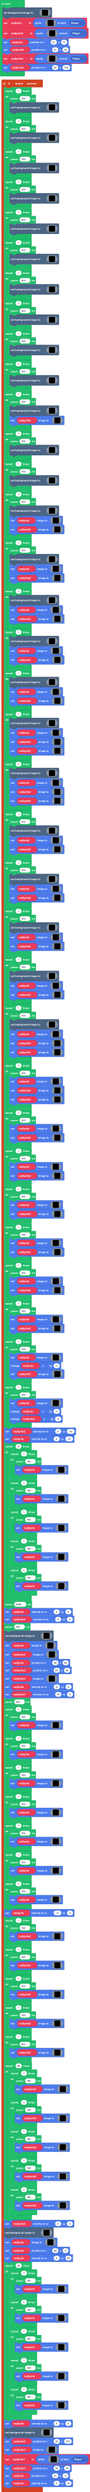
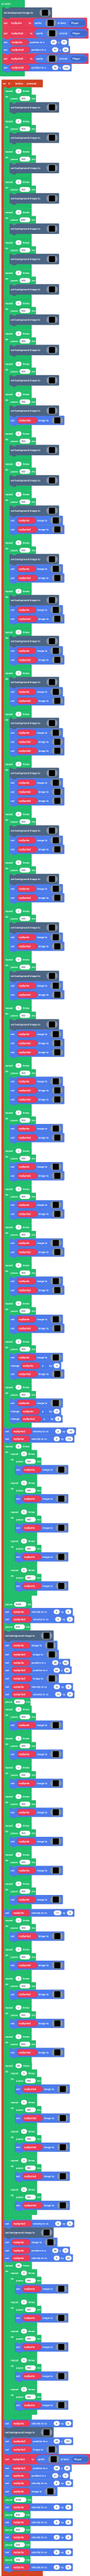
Update main.blocks, main.ts

diff --git a/main.ts b/main.ts
@@ -10467,6 +10467,138 @@ controller.A.onEvent(ControllerButtonEvent.Pressed, function () {
     mySprite3.setPosition(38, 34)
     mySprite.setPosition(51, 0)
     mySprite.setVelocity(0, 10)
+    mySprite.setImage(img`
+        ....................
+        ....................
+        ....................
+        ....................
+        ....................
+        ....................
+        ....................
+        ....................
+        ....................
+        ....................
+        ....................
+        ....................
+        ....................
+        ....................
+        ....................
+        ....................
+        ....................
+        ....................
+        ....................
+        ....................
+        ....................
+        ....................
+        ....................
+        ....................
+        ....................
+        ....................
+        ....................
+        ....................
+        ....................
+        ....................
+        ....................
+        ....................
+        ......bbbbbbbbb.....
+        ......bbbbbbbbb.....
+        ..ffffbbbfffbbbffff.
+        ......bbbbbbbbb.....
+        ......bbbbfbbbb.....
+        ......bbbbfbbbb.....
+        ......1111f1111.....
+        ......1111f1111.....
+        ......1111ff111.....
+        ......1111ff111.....
+        ......1111f1111.....
+        ......1111f1111.....
+        ......1111f1111.....
+        ......1111f1111.....
+        ......1111f1111.....
+        ......1111f1111.....
+        ......1111f1111.....
+        ......1111ff111.....
+        ......bbbbfbbbb.....
+        ......bbbbfbbbb.....
+        ......bbbbfbbbb.....
+        ......bbbbfbbbb.....
+        ......bbbbfbbbb.....
+        ......bbbbfbbbb.....
+        ......bbbbfbbbb.....
+        ......1111f1111.....
+        ......1111f1111.....
+        ......1111f1111.....
+        ......1111f1111.....
+        ......1111ff111.....
+        ......1111ff111.....
+        ......1111f1111.....
+        ......1111f1111.....
+        ......1111f1111.....
+        .....b1111f1111b....
+        ....bb1111f1111bb...
+        ....bb1111f1111bb...
+        ....bb1111f1111bb...
+        ....bb1111f1111bb...
+        ....bb1111f1111bb...
+        ....bb1111ff111bb...
+        ....bb1111f1111bb...
+        ....bb1111ff111bb...
+        ....bb1111f1111bb...
+        ....bb1111f1111bb...
+        ....bb1111f1111bb...
+        ....bb1111f1111bb...
+        ....bb1111f1111bb...
+        ....bb1111f1111bb...
+        ....bb1111f1111bb...
+        .....b1111f1111b....
+        ......fffffffff.....
+        ........44244.......
+        ........44244.......
+        ........44244.......
+        ........44244.......
+        ........44244.......
+        ........44244.......
+        ........4424........
+        .........42.........
+        .........4..........
+        ....................
+        ....................
+        ....................
+        ....................
+        ....................
+        ....................
+        ....................
+        ....................
+        ....................
+        ....................
+        ....................
+        ....................
+        ....................
+        ....................
+        ....................
+        ....................
+        ....................
+        ....................
+        ....................
+        ....................
+        ....................
+        ....................
+        ....................
+        ....................
+        ....................
+        ....................
+        ....................
+        `)
+    pause(4400)
+    mySprite.setVelocity(0, 8)
+    pause(400)
+    mySprite.setVelocity(0, 6)
+    pause(300)
+    mySprite.setVelocity(0, 3)
+    pause(200)
+    mySprite.setVelocity(0, 2)
+    pause(100)
+    mySprite.setVelocity(0, 0)
 })
 let mySprite3: Sprite = null
 let mySprite5: Sprite = null
